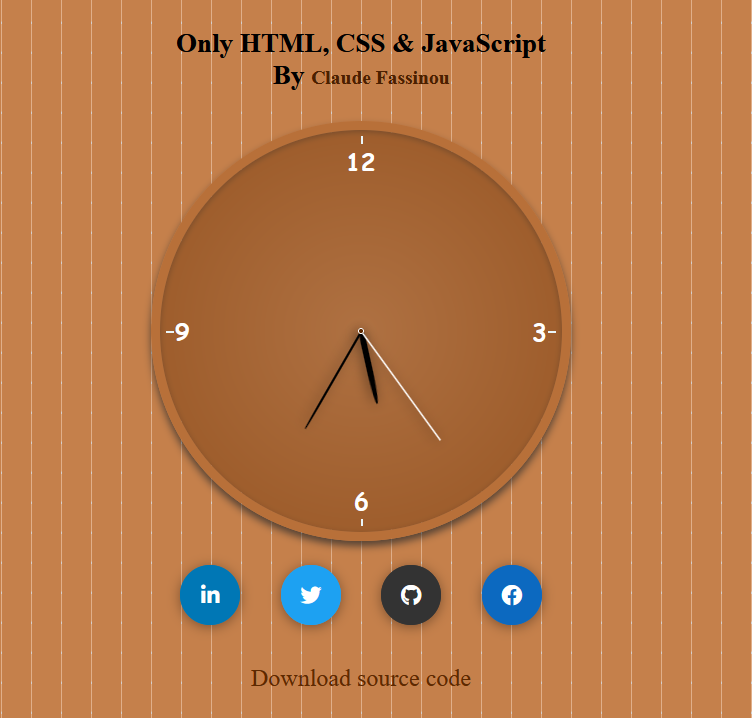
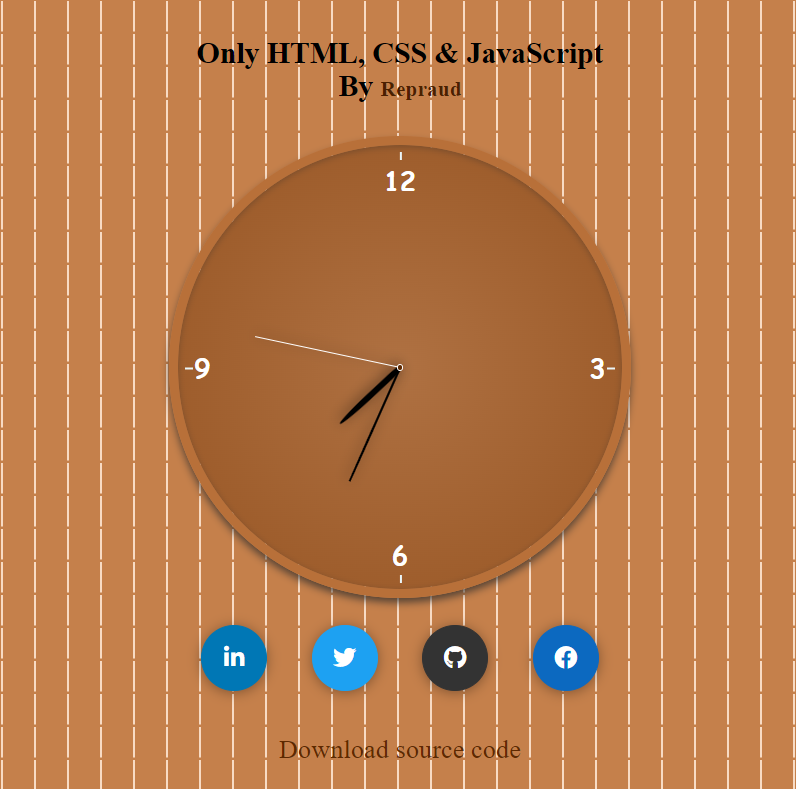
content updated

diff --git a/index.html b/index.html
@@ -24,7 +24,7 @@
           <a
             href="https://www.linkedin.com/in/claude-fassinou-5745361ab/"
             target="_blank"
-            ><span class="name">Claude Fassinou</span></a
+            ><span class="name">Repraud</span></a
           >
         </div>
         <div class="clock">
